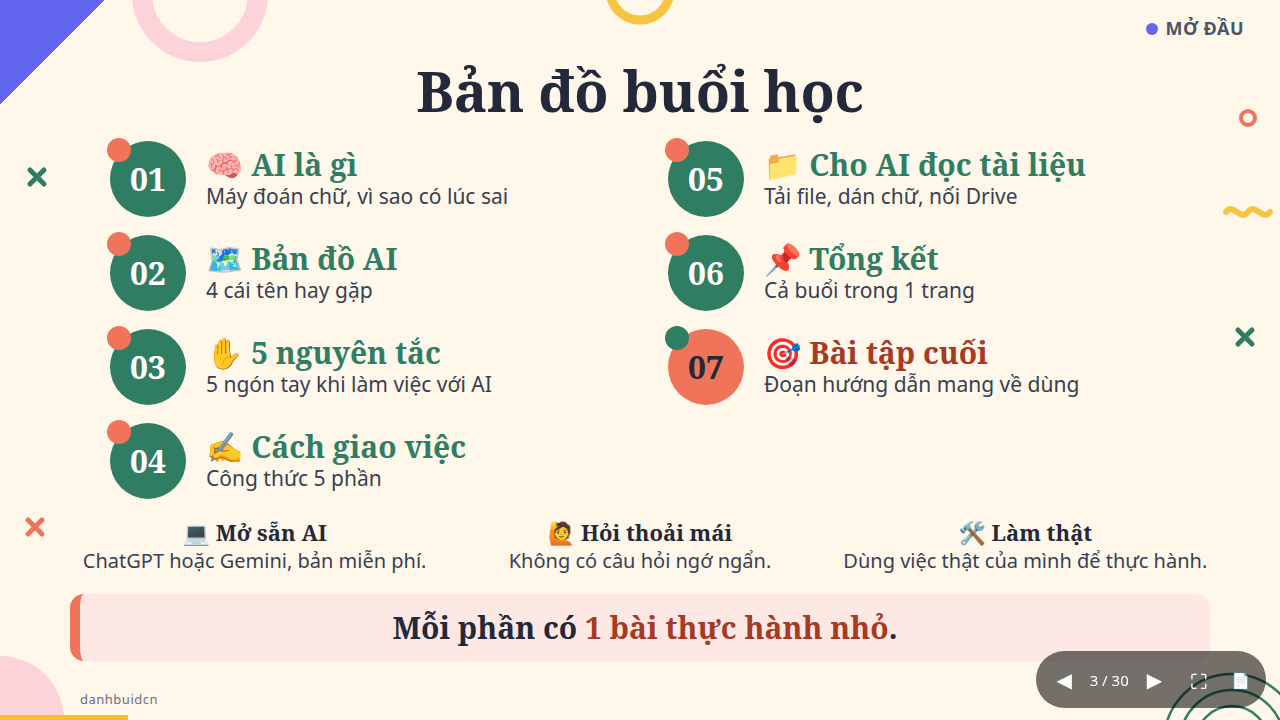
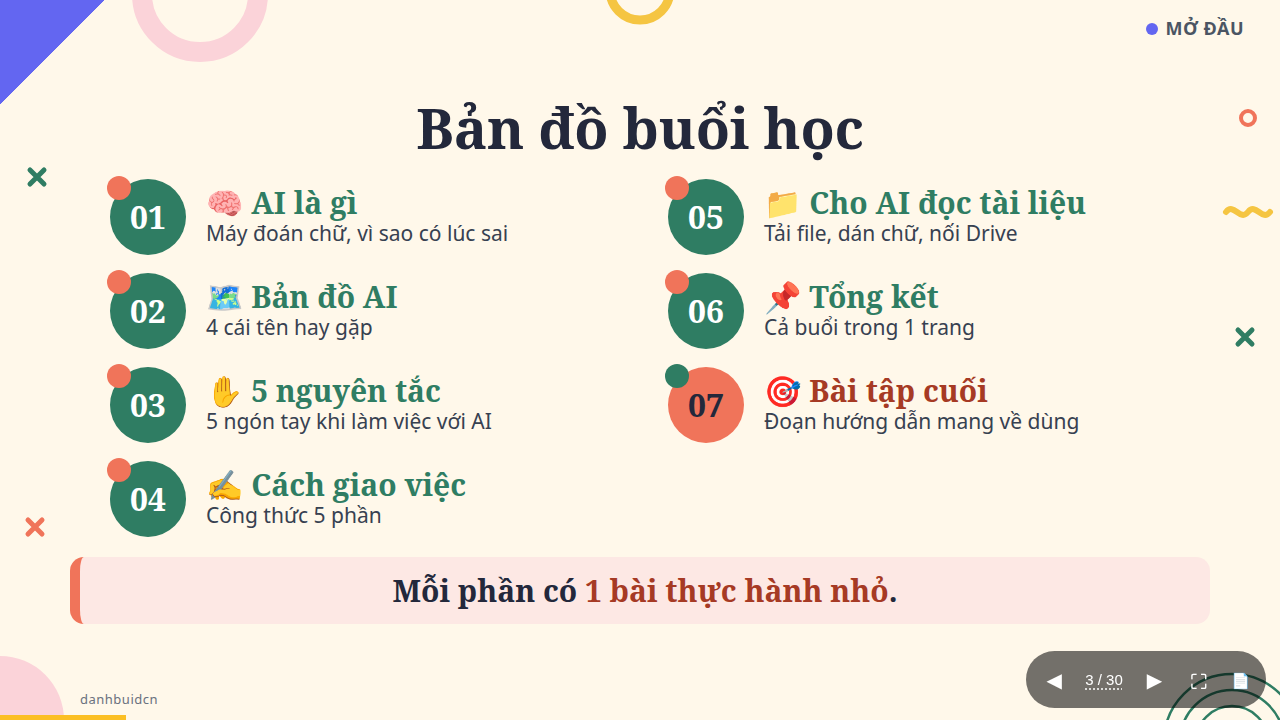
style: slide jump box and left-aligned lists on slides 2-9

diff --git a/wip/2026-11-19/5_powerpoint-style-and-gemini-menu.md b/wip/2026-11-19/5_powerpoint-style-and-gemini-menu.md
@@ -1,11 +1,11 @@
 # Slide kiểu PowerPoint có điểm nhấn + sửa menu Gemini theo giao diện thật
 Nhánh: .
 Phụ thuộc: 4_design-pass.md
-## Handoff (2026-11-19 17:55)
-- **Đang ở đâu:** xong đợt 1 theo lệnh owner: bộ mẫu CSS kiểu PowerPoint + slide 1–10. DỪNG chờ owner duyệt. Slide 11–30 vẫn kiểu cũ, trang chạy bình thường.
-- **Owner xem:** ảnh `img/5_slide-01.png … 5_slide-10.png`, hoặc mở `index.html#1` … `#10`. So sánh với mẫu: mục "So với ảnh mẫu" trong `## Kết quả`.
-- **Bước tiếp (sau khi duyệt, `spawn --resume`):** sửa theo góp ý → thêm class `pp` + sắp layout cho slide 11–30 (bước 3) → sửa menu Gemini (bước 4) → máy trung gian 20 lượt/5 phút (bước 5) → kiểm tra (bước 6).
-- **File:** `index.html` (CSS mục "Kiểu PowerPoint" + slide 1–10), `outline/00-mo-dau.md` (dòng slide 3).
+## Handoff (2026-11-19 17:45)
+- **Đang ở đâu:** xong đợt 1b (góp ý của owner cho slide 1–10). DỪNG chờ owner duyệt. Slide 11–30 vẫn kiểu cũ, trang chạy bình thường.
+- **Owner xem:** ảnh mới `img/5_slide-02, 03, 05, 07, 09.png`, hoặc mở `index.html#2` …; thử bấm "x / 30" góc phải dưới, gõ số + Enter. Chi tiết: mục "Đợt 1b" trong `## Kết quả`.
+- **Bước tiếp (sau khi duyệt, `spawn --resume`):** thêm class `pp` + sắp layout cho slide 11–30, theo luật "nhiều ý → danh sách căn trái" (bước 3) → sửa menu Gemini (bước 4) → máy trung gian 20 lượt/5 phút (bước 5) → kiểm tra (bước 6).
+- **File:** `index.html` (CSS mục "Kiểu PowerPoint", `ul.dot`/`.ls`, ô `#goto` + slide 1–10).
 ## Input
 Owner (2026-11-19):
 1. Thiết kế slide "như PowerPoint" (các slide mẫu owner gửi, từ slide 4 của mẫu trở đi), vì chữ/khối hiện tại không tạo được điểm nhấn. Tham khảo thêm thư mục mẫu: https://drive.google.com/drive/folders/1T6xAyeMAyJ42Oaj2-FvZOQV9eLaPngXq
@@ -37,6 +37,14 @@ Thử mở thư mục Drive bằng WebFetch; không đọc được thì chỉ d
 - Việc: sửa mọi chỗ "Customize → Connectors" thành `Tuỳ chỉnh → Trình kết nối → Google Workspace → +` (đường phụ: `Trí thông minh cá nhân → Các ứng dụng có thể kết nối`). Bài tập cuối: thêm `Trí thông minh cá nhân → Chỉ dẫn cho Gemini` là chỗ dán khung trả lời cố định; Gem là cách khác. Thêm câu "không thấy thì tìm chữ 'Trình kết nối' hoặc 'Connectors'".
 - Ảnh chụp có tên + lịch sử chat riêng của owner: KHÔNG đưa vào repo.
 ## Plan
+- **Đợt 1b (owner góp ý sau khi xem 10 slide, 2026-11-19). Chỉ sửa slide 1–10 + thành phần chung, rồi DỪNG chờ duyệt, chưa làm slide 11–30:**
+  - [x] Thêm ô **nhập số để nhảy tới slide** (vd gõ 12 + Enter → tới slide 12; hợp lệ 1–30; hiện "x / 30" bấm vào để gõ số; cũng giữ `#số` trên địa chỉ). Không ảnh hưởng phím ←/→. — xong (17:45): "x / 30" thành nút; bấm → ô số; Enter nhảy, số sai (vd 99) ô đỏ + giữ nguyên, Esc/bấm ra ngoài thì thôi. Thử thật: #3 → gõ 12 → #12; → #13; ←← #11; 99 → không đổi; 30 → #30.
+  - [x] Slide 2, mục "Dành cho ai": đổi sang **danh sách theo dòng**, căn trái, mỗi dòng 1 ý ngắn (gạch đầu dòng hoặc vòng tròn nhỏ), thay vì đoạn văn căn giữa. — xong: vòng tròn 🙋 + tên cạnh nhau, 4 dòng chấm san hô.
+  - [x] Slide 2, ba ý "Mở sẵn AI / Hỏi thoải mái / Làm thật": **bỏ hẳn mục này**. — xong: 3 ý này nằm ở slide 3 (Bản đồ buổi học), đã bỏ ở đó + bỏ CSS `.tips`.
+  - [x] Slide 7 ("2 loại AI"): mỗi loại viết **gạch đầu dòng căn trái** (ví dụ, đặc điểm), bỏ các câu liền nhau dài; vẫn giữ vòng tròn biểu tượng và tên loại. — xong: mỗi loại 4 dòng.
+  - [x] Slide 9 ("4 cái tên hay gặp"): mỗi tên (ChatGPT, Gemini, Claude, Perplexity) có các ý bên trong dạng **danh sách gạch đầu dòng căn trái** (Dùng khi nào; Mạnh ở đâu…), không viết cụm văn căn giữa. Sửa tiêu đề cho khớp số thẻ thực tế (nếu còn Codex/Claude Code như một mục riêng thì đếm đúng). — xong: thẻ có 2 dòng "Dùng khi / Mạnh"; bấm mở thấy "Hãng / Vào: trang web"; ô Codex thành 3 dòng. Tiêu đề giữ "4": đúng 4 thẻ, Codex/Claude Code là ô phụ.
+  - **Luật chung từ nay cho mọi slide:** nội dung nhiều ý → danh sách căn trái, mỗi dòng 1 ý ngắn; chỉ tiêu đề và câu chốt mới căn giữa. Thông tin so sánh nhiều mục → danh sách, không đoạn văn.
+  - [x] Chụp lại ảnh các slide đã đổi (ghi đè `img/5_slide-0N.png`), commit, ghi Handoff, DỪNG. — xong: ghi đè ảnh 02, 03, 05, 07, 09.
 - **Nhắc lại của owner:** 10 slide đầu phải làm GIỐNG POWERPOINT NHƯ CÁC ẢNH MẪU (`mau-17…21.png`): nền kem có trang trí góc, tiêu đề to đậm, mục lục số trong vòng tròn, vòng tròn biểu tượng, số lớn, hình minh hoạ lớn, bảng màu. Không phải giao diện web/thẻ chữ như hiện tại. Nhìn ảnh mẫu bên cạnh slide mình làm để so (chụp cạnh nhau, ghi vào Kết quả: giống ở đâu, khác ở đâu).
 - **Owner (2026-11-19): làm trước 10 slide đầu để duyệt.** Chỉ làm bộ mẫu + slide 1–10 theo phong cách mới, chạy được trên trang thật (file `index.html`), chụp ảnh 10 slide vào `wip/2026-11-19/img/5_slide-01.png … 5_slide-10.png`, commit, rồi **DỪNG** (ghi Handoff: đã làm gì, bước tiếp, ảnh ở đâu). KHÔNG áp cho slide 11 trở đi, KHÔNG sửa menu Gemini (mục C) và KHÔNG nâng giới hạn lượt ở bước này: để sau khi owner duyệt. Slide 11–30 để nguyên kiểu cũ trong lúc chờ, trang vẫn chạy bình thường.
 - Chỉ sau khi owner duyệt mới làm phần còn lại (owner ra lệnh nối tiếp bằng `spawn --resume`).
@@ -87,6 +95,20 @@ Chung: nền kem, trang trí góc (tam giác, vòng cung, chấm, nét lượn) 
 - Slide 1 thêm 1 câu phụ "Học cách giao việc cho trợ lý AI." (lấy từ câu chốt slide 2). Slide 3: mô tả 1 dòng cho 7 phần lấy từ nội dung các phần; 3 lời dặn thành hàng 3 cột.
 - Đã viết sẵn CSS bảng kiểu mẫu (`.pp table`) để dùng ở đợt 2 (slide 23); "Trung tâm + 4 ý" làm ở đợt 2.
 - Có 2 worker cùng id chạy song song lúc đầu (pid 549174 và 550070); đã nhắn nhau, worker sau dừng, không sửa code.
+
+### Đợt 1b: sửa theo góp ý owner (2026-11-19 17:45)
+| Việc | Sau | Ảnh |
+|---|---|---|
+| Nhảy tới slide | Bấm "x / 30" (gạch chân chấm) → gõ số → Enter. Sai số: ô đỏ. Phím ←/→, `#số` trên địa chỉ vẫn chạy | — |
+| Slide 2 | "Dành cho ai": 4 dòng căn trái, chấm san hô | [5_slide-02](img/5_slide-02.png) |
+| Slide 3 | Bỏ 3 ý "Mở sẵn AI / Hỏi thoải mái / Làm thật" | [5_slide-03](img/5_slide-03.png) |
+| Slide 5 | Đoạn văn dưới cột → 2 dòng danh sách (theo luật chung) | [5_slide-05](img/5_slide-05.png) |
+| Slide 7 | Mỗi loại AI 4 dòng căn trái; giữ vòng tròn + tên | [5_slide-07](img/5_slide-07.png) |
+| Slide 9 | Thẻ: "Dùng khi / Mạnh" thành danh sách; chi tiết khi bấm: "Hãng / Vào: …" xếp 1 hàng; ô Codex 3 dòng | [5_slide-09](img/5_slide-09.png) |
+
+- Kiểm (1280×720, Chrome headless): tràn dọc 0 ở slide 1–7, 9; slide thực hành 8, 10 cuộn như trước (94px, 115px); chữ < 18px: 0; lỗi JS: 0; in PDF 30 trang; laptop 1024×600 vẫn vừa.
+- Quyết định tự chọn: owner ghi "slide 2" cho 3 ý cần bỏ, nhưng 3 ý đó chỉ có ở slide 3 → bỏ ở slide 3. Kiểu danh sách chung: `ul.dot` (và `.ls` để dùng trong nút bấm). Vòng tròn biểu tượng ở slide 9 nhỏ lại 96 → 80px để thẻ không tràn. Slide 9 giữ tên "4 cái tên" vì có đúng 4 thẻ.
+- Còn lệch: ở slide 9, khi bấm mở 1 thẻ, slide dài thêm 80px và phải cuộn (trước là 39px), vì thẻ giờ có 2 dòng danh sách. Nhãn "⬇ Cuộn xuống xem tiếp" hiện như cũ.
 
 ### Còn lại (chờ owner duyệt)
 - Bước 3–6 ở `## Plan`: áp cho slide 11–30, sửa menu Gemini, máy trung gian 20 lượt/5 phút, kiểm tra toàn bộ.
